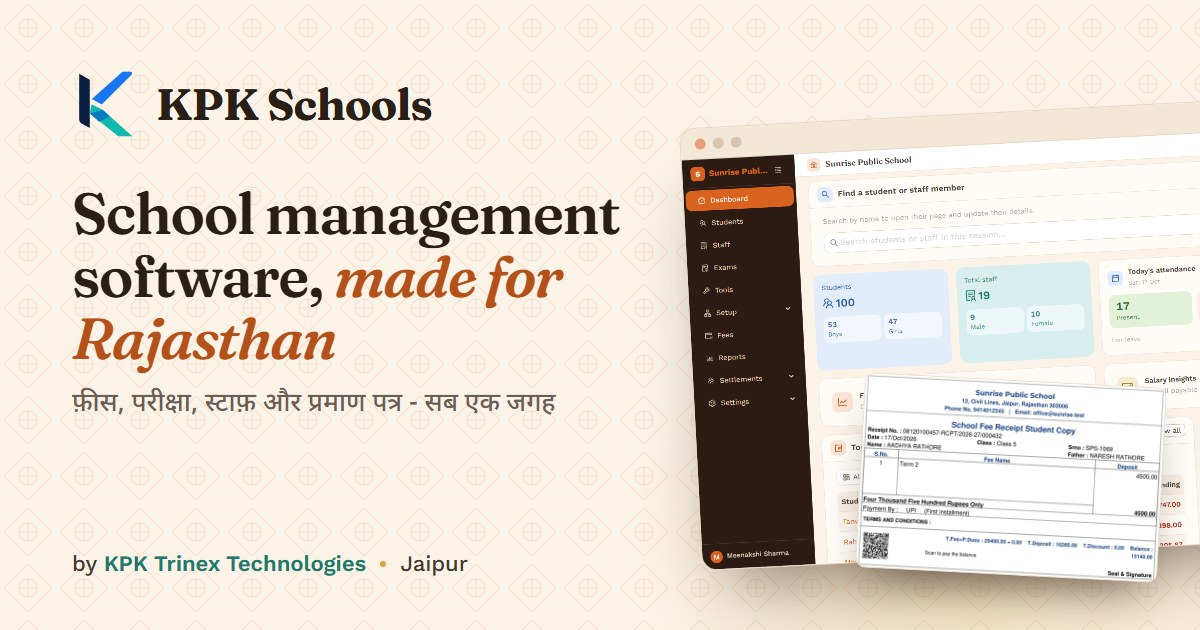
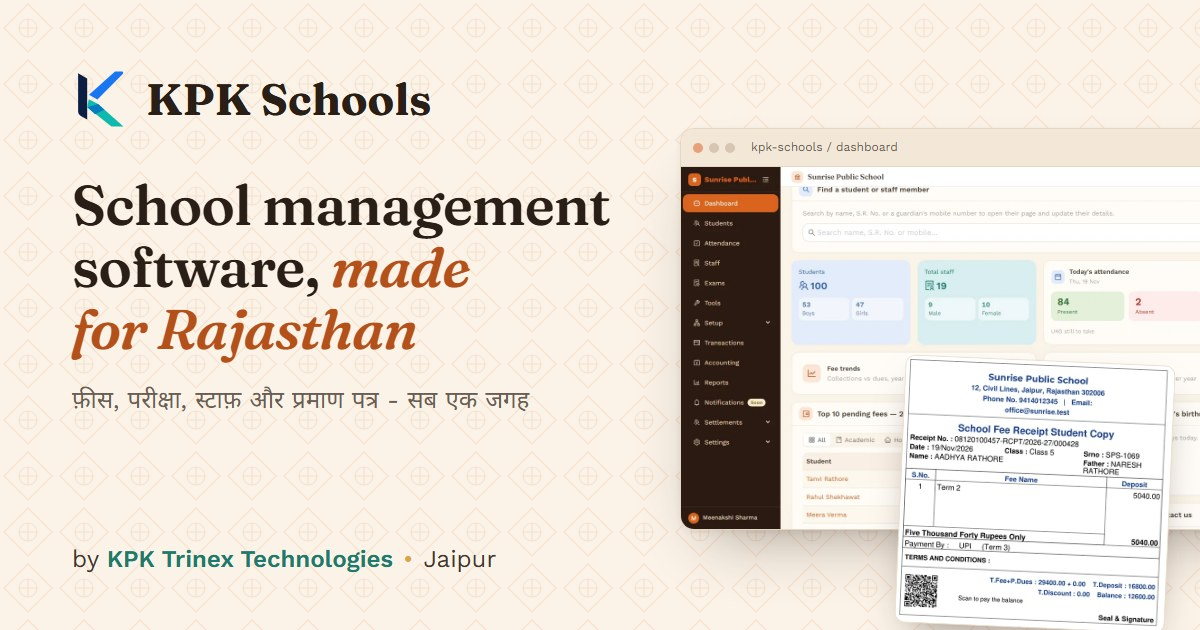
KPK Schools page: accounting, WhatsApp and the latest screens
The product page now covers what KPK Schools does today: accounting, receipts and slips sent on WhatsApp, every
transaction in one list, refunds, admission ages, search by mobile, performance tests and staff letters. New
dashboard and accounting screenshots, and its share card redrawn with the new dashboard.

diff --git a/src/content/products/kpk-schools.md b/src/content/products/kpk-schools.md
@@ -1,34 +1,38 @@
 ---
 name: KPK Schools
 tagline: School management software for private schools in Rajasthan
-summary: Admissions, student attendance, fees and receipts, exams and marksheets, staff attendance and payroll, certificates, hostel and transport - in one web app that works on any phone, tablet or computer.
+summary: Admissions, student attendance, fees and receipts, exams and marksheets, staff attendance and payroll, certificates, hostel and transport, and the school's accounts - in one web app that works on any phone, tablet or computer.
 seoTitle: "KPK Schools: School ERP for Rajasthan | KPK Trinex Technologies"
-seoDescription: "KPK Schools is school management software for Rajasthan's private schools: admissions, attendance, fees and receipts, exams, payroll and certificates."
+seoDescription: "KPK Schools is school management software for Rajasthan's private schools: admissions, attendance, fees, exams, payroll, certificates and accounting."
 url: https://schools.kpktrinextechnologies.in/
 shareImage: /products/kpk-schools/og-card.jpg
 order: 1
 audience: Private schools in Rajasthan, Hindi- and English-medium, from pre-primary to senior secondary.
 highlights:
-  - title: Fees and receipts
-    text: Class fees with installments, hostel and transport charged month by month, discounts, numbered receipts and fee statements with a UPI QR code for the amount due.
+  - title: Fees, receipts and WhatsApp
+    text: Class fees with installments, hostel and transport month by month, discounts and refunds, numbered receipts with a UPI QR code - sent to parents on WhatsApp - and every transaction of the year in one list.
+  - title: Accounting
+    text: Fees and salaries counted in as they are paid, the school's other income and expenses with their bills, a day book, graphs, and income and expenditure reports as PDF or Excel.
   - title: Exams and results
-    text: Written, practical and oral parts, time tables, admit cards, marks entry and Excel upload, results with grades and ranks, and marksheets that add up the year's exams.
+    text: Written, practical and oral parts, time tables, admit cards, marks entry and Excel upload, results with grades and ranks, marksheets for the whole year, report cards and performance tests.
   - title: Students and attendance
-    text: Admissions with the school's own form, roll numbers, ID cards, daily attendance taken on a phone, and transfer, bonafide and character certificates.
+    text: Admissions by age with the school's own form, search by a guardian's mobile, daily attendance taken on a phone, ID cards, and transfer, bonafide and character certificates.
   - title: Staff and payroll
-    text: Staff attendance, salary structures, payouts, salary slips, and relieving and experience letters.
+    text: Staff attendance, salary structures, payouts and salary slips sent on WhatsApp, and relieving and experience letters.
   - title: Made for Rajasthan
-    text: The Palanhar Yojana certificate printed in Hindi, students imported from the PSP portal report, RTE status on every student and April-to-March sessions.
-  - title: Data kept safe
-    text: Stored in India (Amazon Web Services, Mumbai), encrypted and backed up daily; each school's data kept apart, access by role, and a history of every change.
+    text: The Palanhar Yojana certificate printed in Hindi, students imported from the PSP portal report, RTE status on every student, Rajasthan's admission ages and April-to-March sessions.
 screens:
   - src: ../../assets/products/kpk-schools/dashboard.webp
-    alt: The KPK Schools dashboard of a school, with students, staff and pending fees
-  - src: ../../assets/products/kpk-schools/fees.webp
-    alt: "A student's fees in KPK Schools: what is due, paid, discounted and pending"
+    alt: The KPK Schools dashboard of a school, with students, staff, today's attendance and pending fees
+  - src: ../../assets/products/kpk-schools/accounting.webp
+    alt: "Accounting in KPK Schools: income, expense and the month's figures, a month-by-month graph and where the money goes"
 ---
 
 KPK Schools is our first product, built and run by KPK Trinex Technologies. Schools use it every day to admit students,
-take attendance, collect fees, run exams and pay their staff - with every printed document in English and Hindi.
+take attendance, collect fees, run exams, pay their staff and keep their accounts - with every printed document in
+English and Hindi.
+
+Their data is stored in India (Amazon Web Services, Mumbai), encrypted and backed up daily; each school's data is kept
+apart, access goes by role, and every change is kept in a history.
 
 A demo is free, and the price is quoted for each school by its size and needs.
